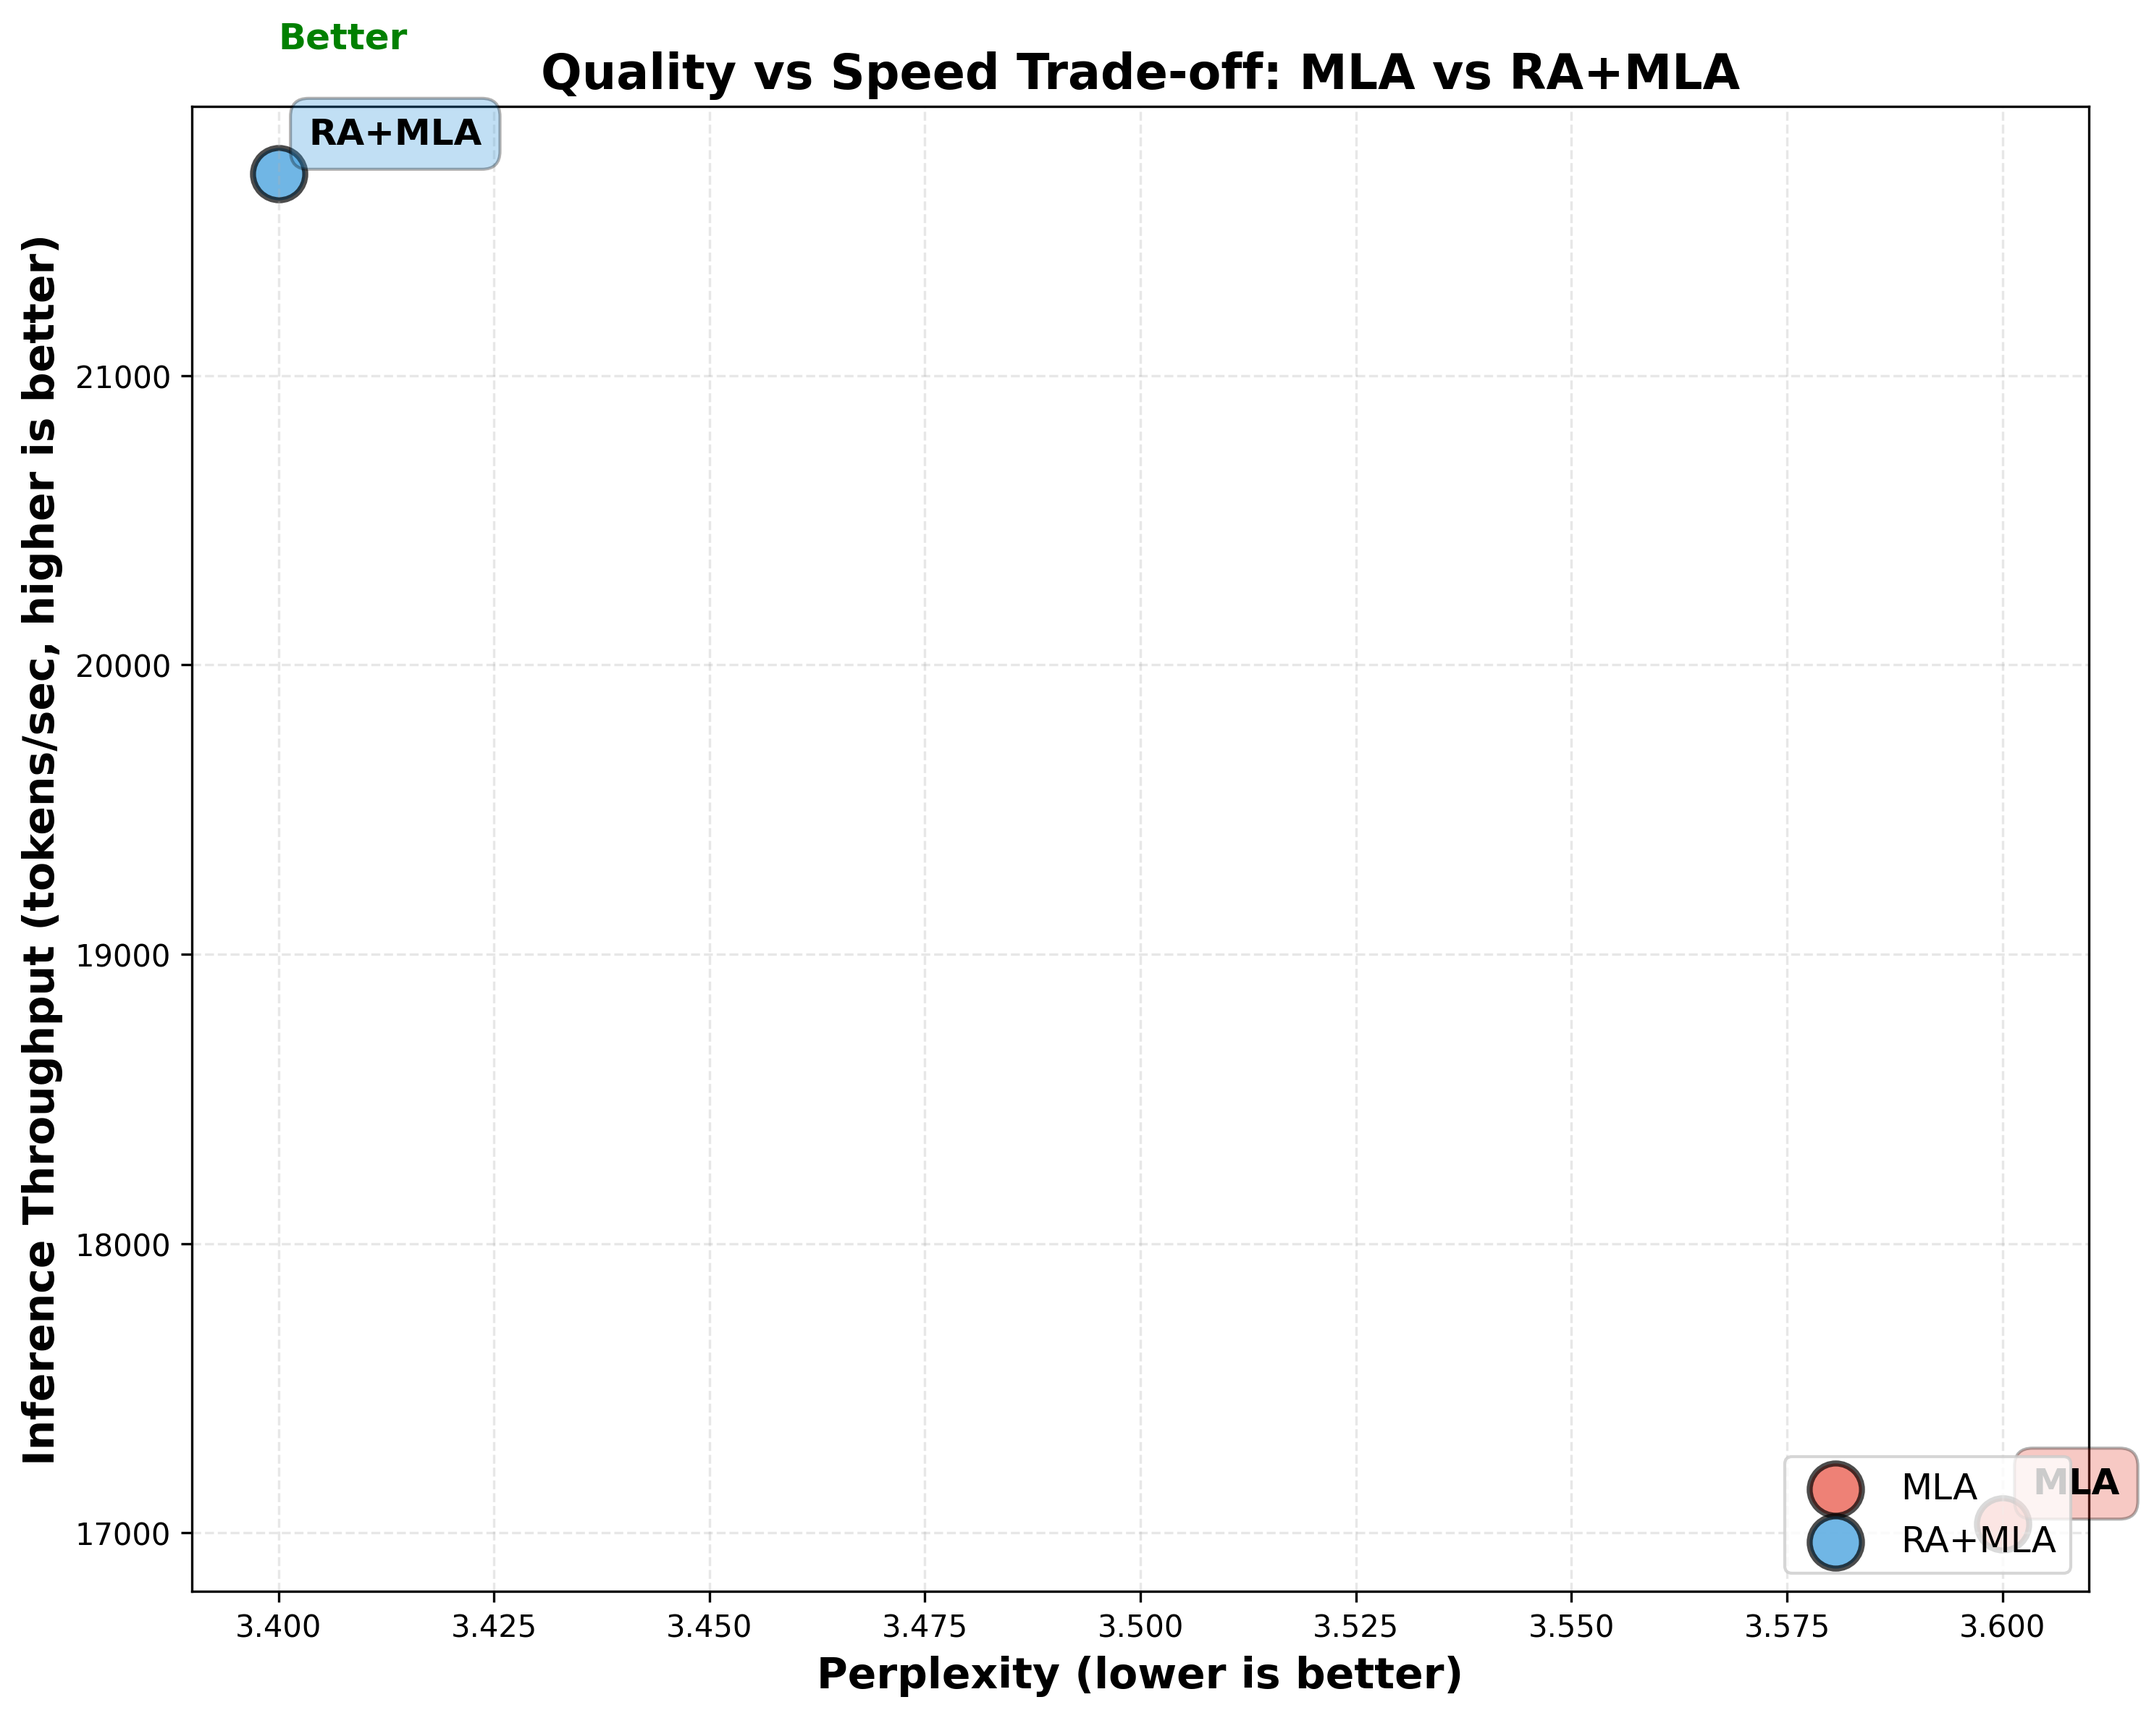
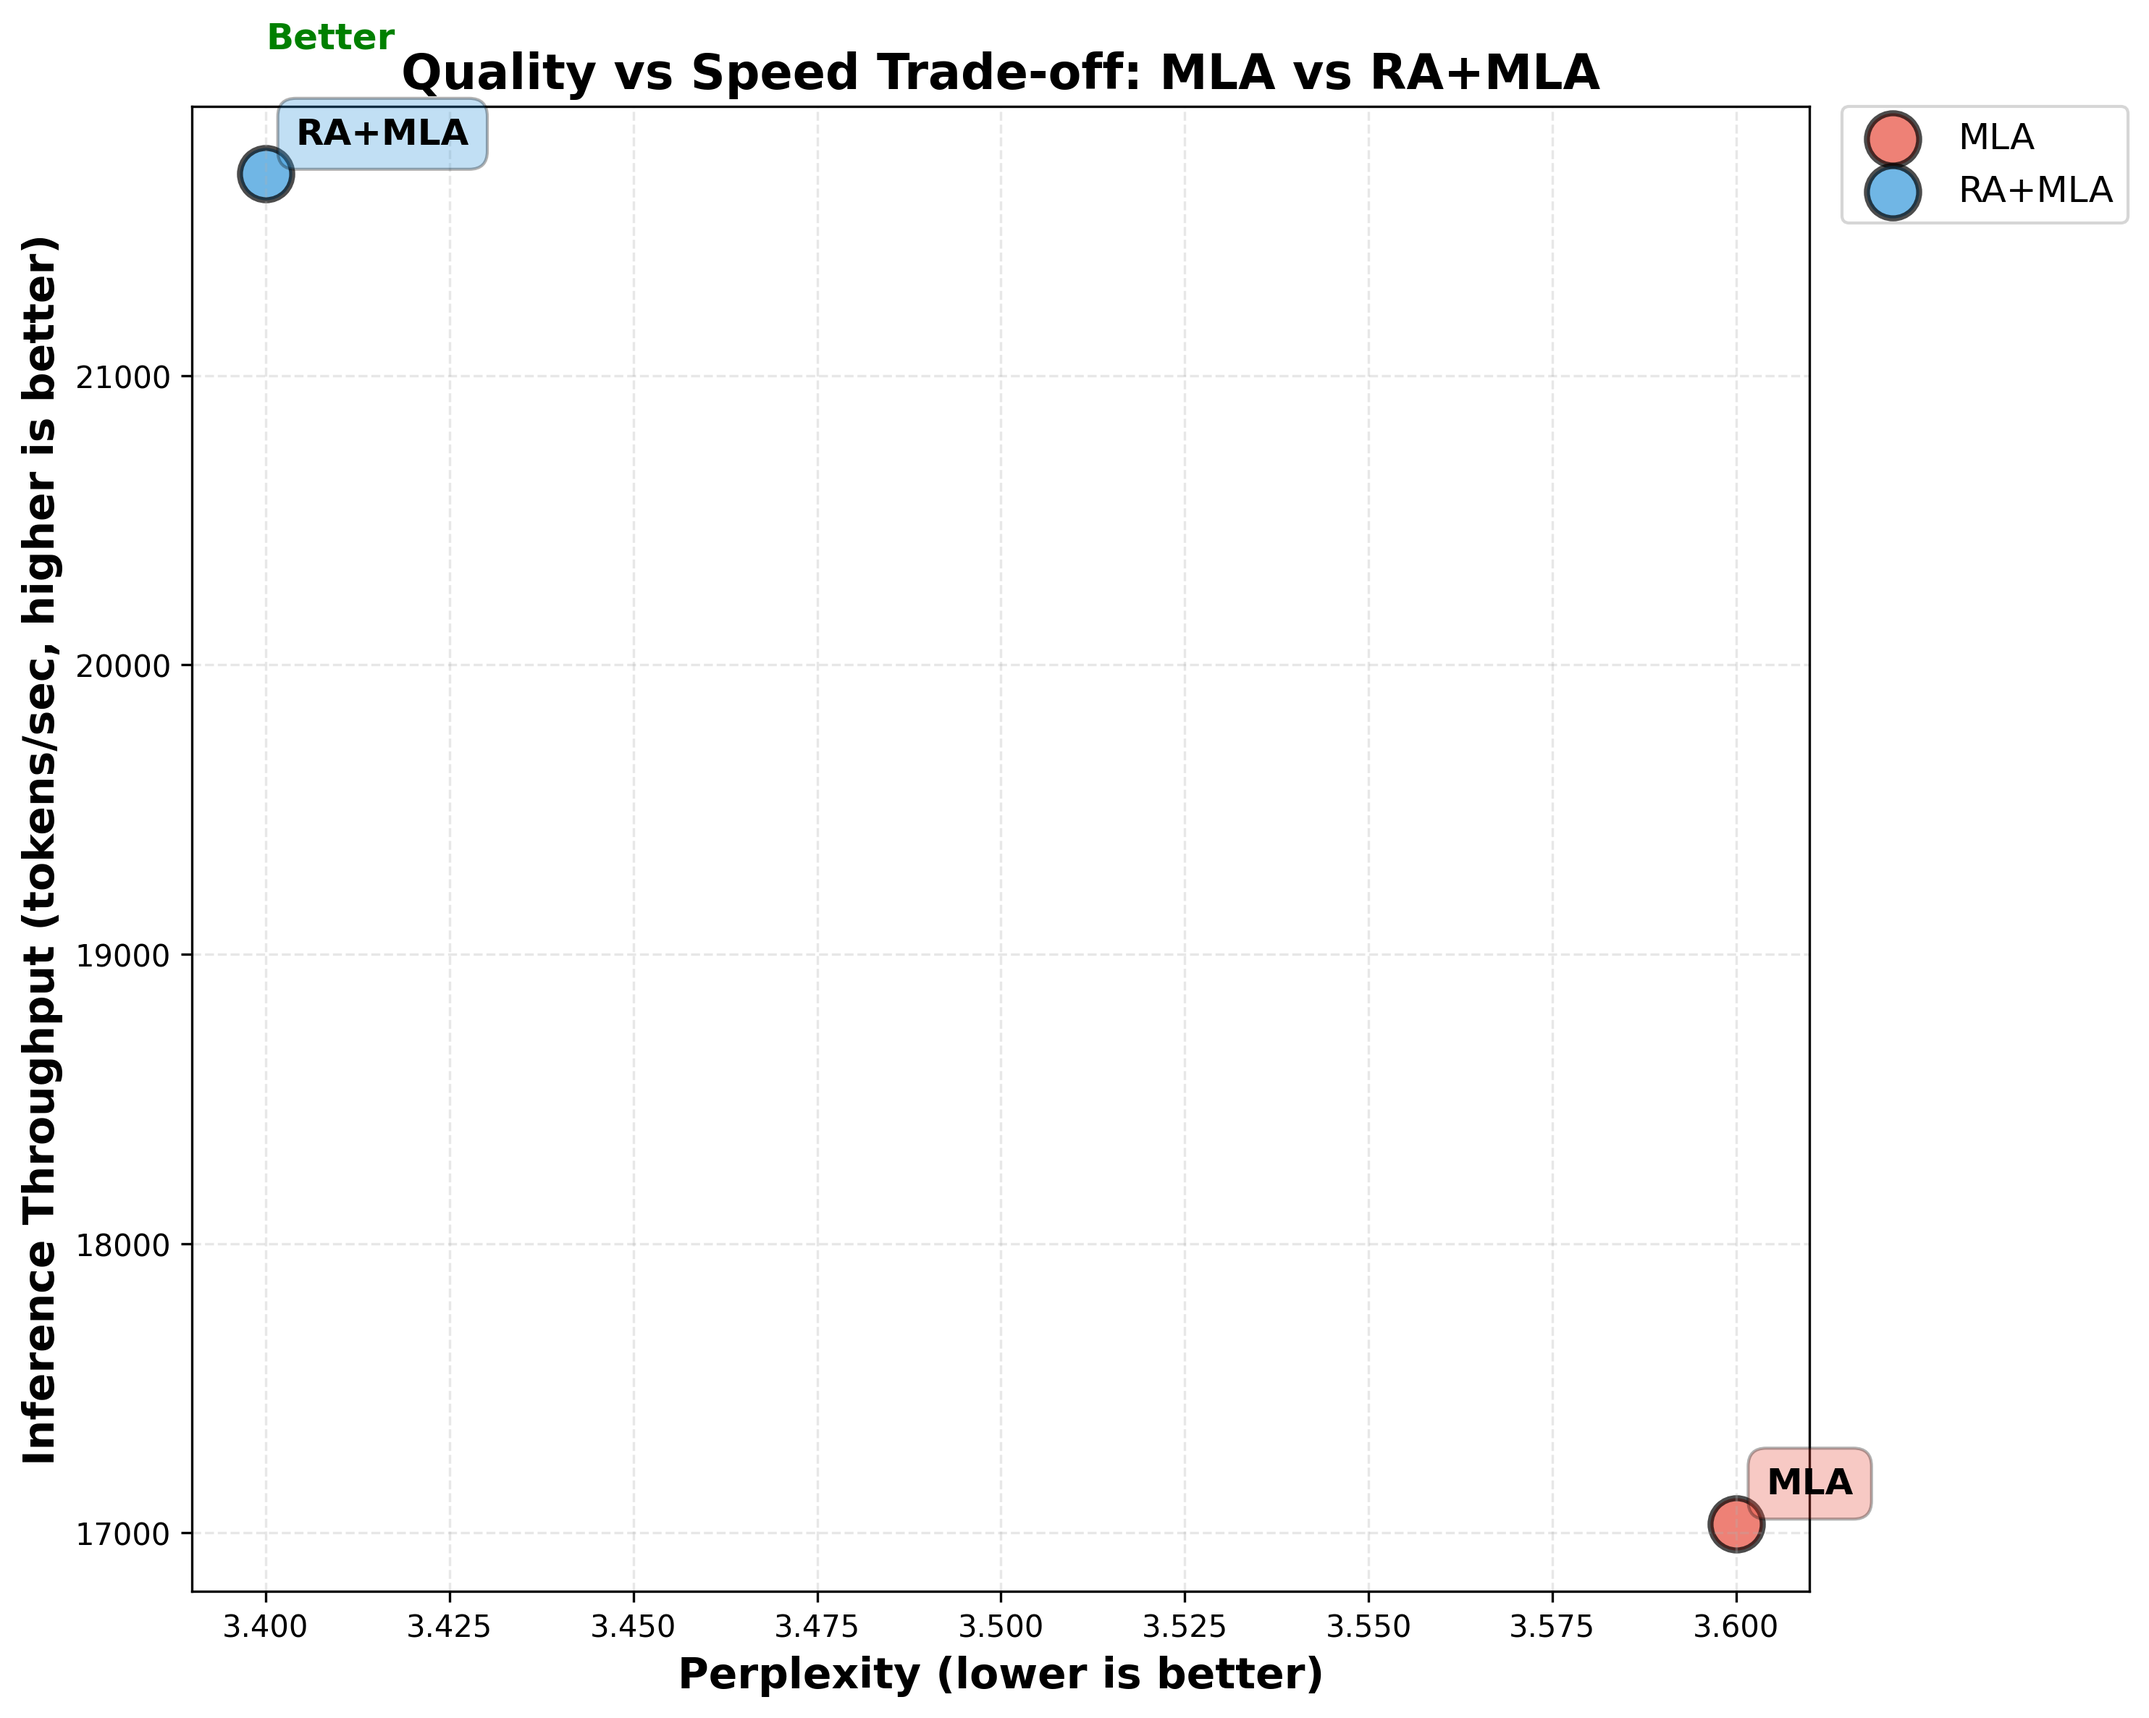
scripts,docs: move legends outside quality-speed tradeoff plots
Moved legends from bottom-right corner inside the plot area to
outside (upper left, anchored at bbox 1.02, 1) for both RA and
KVSplice quality vs speed tradeoff scatter plots. With only
2-5 data points on these plots, the legend inside the graph area
was confusing readers who couldn't tell if it was plotted data
or legend information.

The bbox_to_anchor=(1.02, 1) placement puts the legend just
outside the plot area on the right side, making it clearly
separate from the data points. The bbox_inches="tight" savefig
parameter ensures the legend is included in the saved image.

Regenerated both tradeoff plots with the new legend placement.

Generated-by: Claude AI

diff --git a/scripts/generate_ra_kvsplice_plots.py b/scripts/generate_ra_kvsplice_plots.py
@@ -246,7 +246,7 @@ def create_ra_quality_speed_tradeoff(data):
     )
 
     ax.grid(True, alpha=0.3, linestyle="--")
-    ax.legend(fontsize=12, loc="lower right")
+    ax.legend(fontsize=12, loc="upper left", bbox_to_anchor=(1.02, 1), borderaxespad=0)
 
     plt.tight_layout()
     output_path = OUTPUT_DIR / "ra_quality_speed_tradeoff.png"
@@ -441,7 +441,7 @@ def create_kvsplice_quality_speed_tradeoff(data):
     )
 
     ax.grid(True, alpha=0.3, linestyle="--")
-    ax.legend(fontsize=11, loc="lower right")
+    ax.legend(fontsize=11, loc="upper left", bbox_to_anchor=(1.02, 1), borderaxespad=0)
 
     plt.tight_layout()
     output_path = OUTPUT_DIR / "kvsplice_quality_speed_tradeoff.png"
